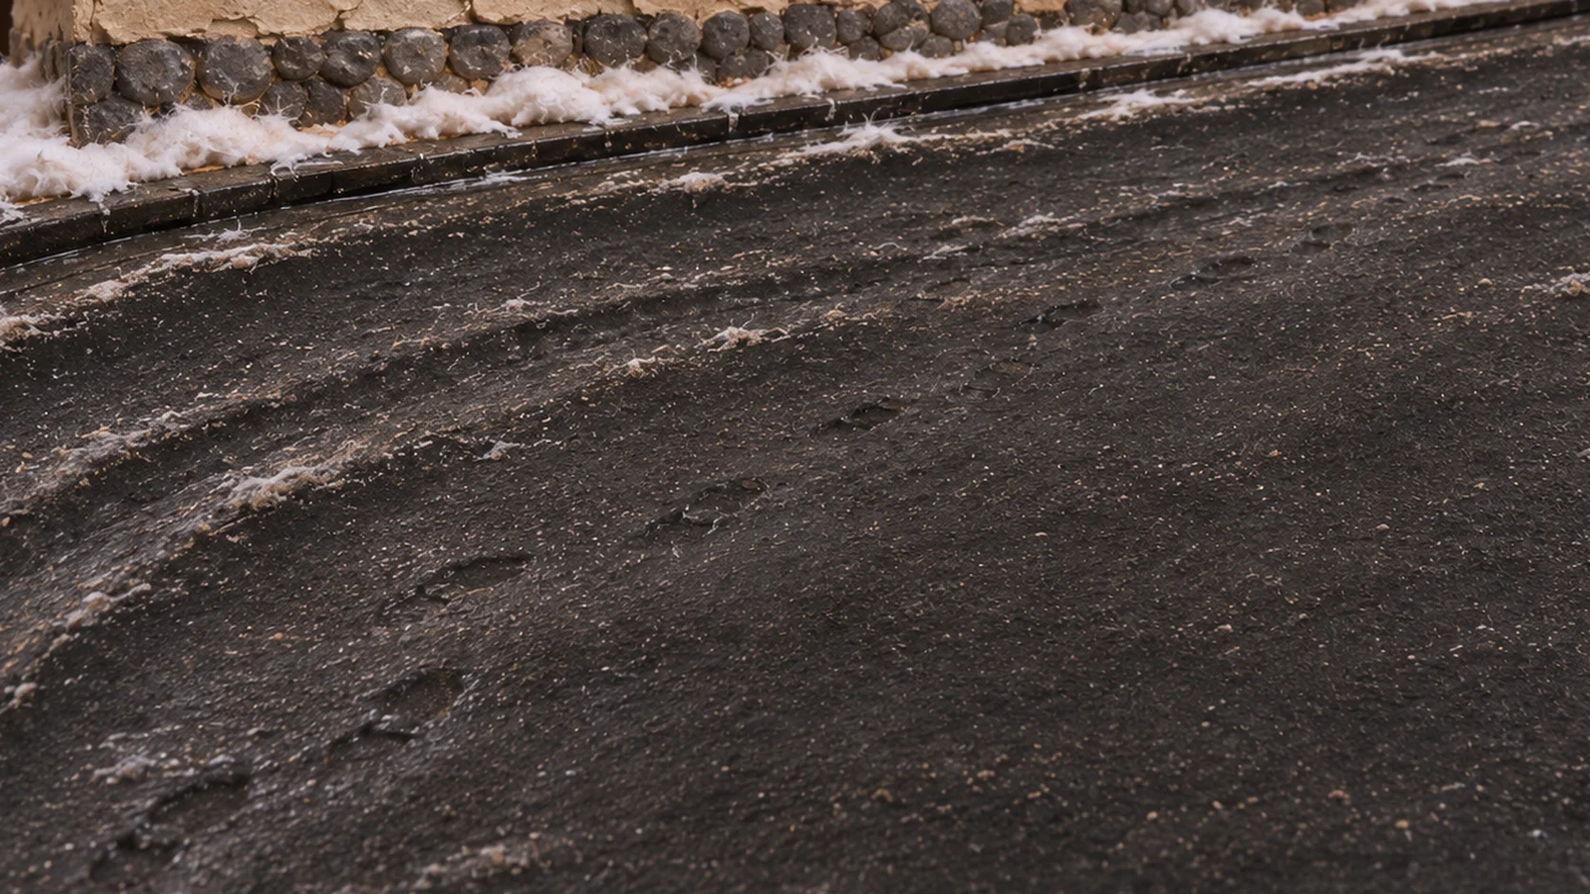
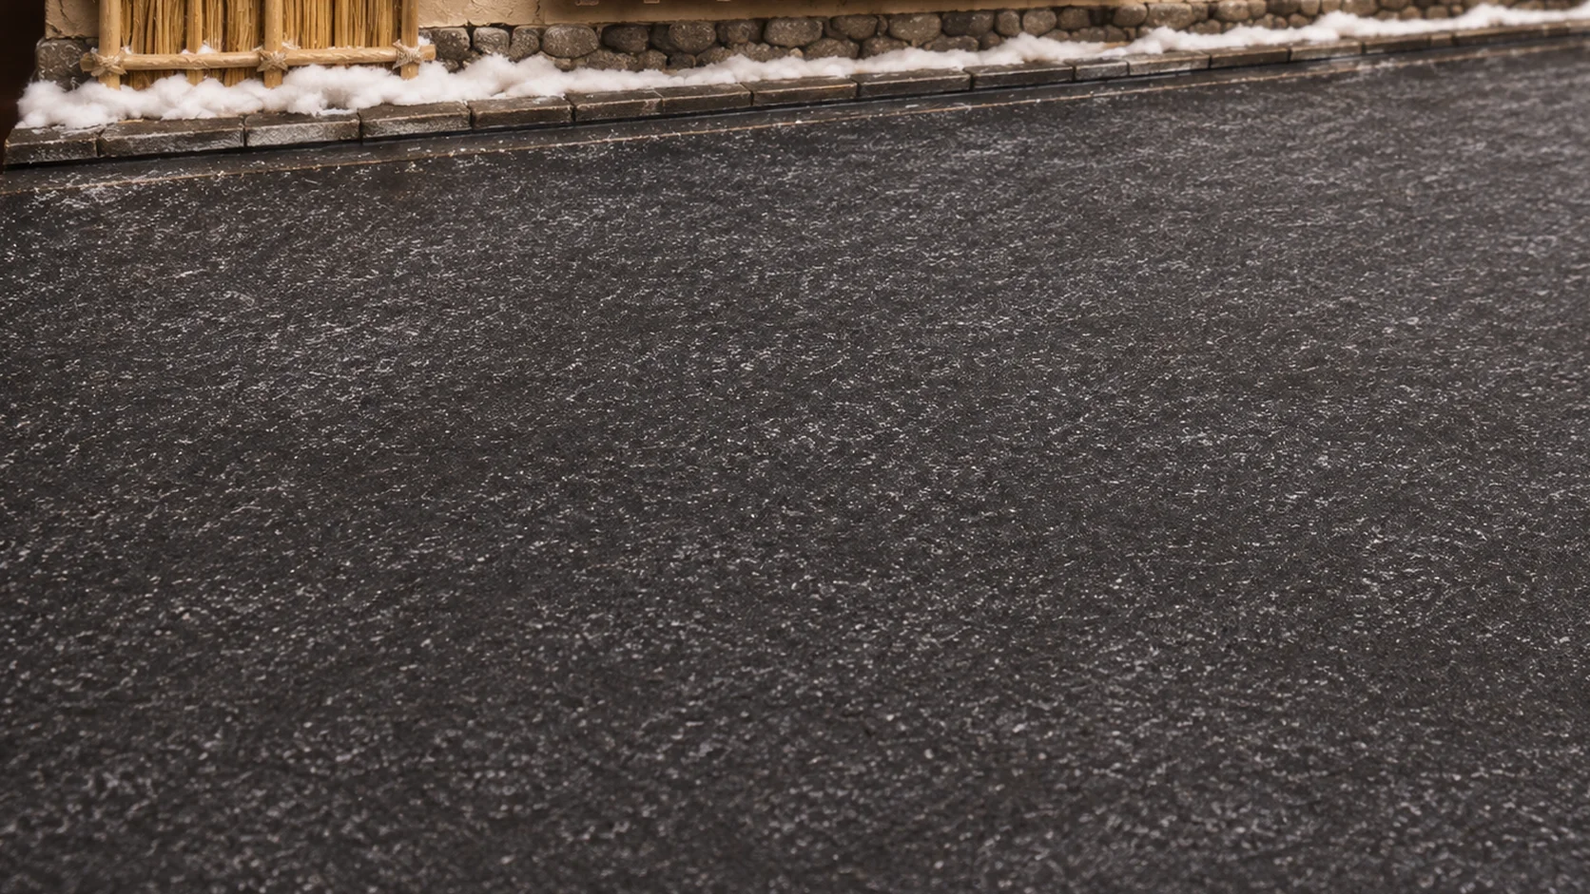
feat(battle-bg): BG012 を平らな路面・均一な薄い粉雪の層で再生成（take5）、路面のうねりの間接検査（左端の低周波のむら）、上端帯に余裕の大きいクロップを選択、来歴・SKILL・レビュー観点・テスト (Refs #191)

diff --git a/tests/test_battle_bg_build.py b/tests/test_battle_bg_build.py
@@ -607,9 +607,10 @@ class RoadBackground(unittest.TestCase):
     def test_pre_check_passes_and_prompt_is_a_snow_road_without_snow_melting_holes(self):
         self.assertEqual(B.pre_check(self.L), [])
         text = B.build_prompt(B.corrected_layout(self.L))
-        self.assertIn("雪が薄く積もった雪道", text)
+        self.assertIn("平らで水平な路面", text)
+        self.assertIn("均一にかかった白い粉雪の層", text)
         self.assertIn("黒い湿ったアスファルト", text)
-        self.assertIn("足跡", text)
+        self.assertIn("曲線", text)  # 左端の路面は弧や曲線にならない
         for bad in ("舞台", "緞帳", "城", "消雪", "金属", "穴", "融雪"):  # kako-jun「雪道でいいのでは」: 穴・金属蓋は描かない
             self.assertNotIn(bad, text)
 
@@ -824,6 +825,54 @@ class RoadBlackBoundary(unittest.TestCase):
             return [q for q in rep["problems"] if "路面の黒い面" in q]
         self.assertTrue(run(0.44))   # 44% は NG（45% 以上が要る）
         self.assertFalse(run(0.46))  # 46% は合格
+
+
+
+
+class FlatRoad(unittest.TestCase):
+    """路面のうねり・盛り上がり・湾曲した轍の間接検査（画面左端の低周波の明るさのむら）。"""
+
+    def setUp(self):
+        _, self.L = B.load("BG012")
+
+    def run_check(self, painter):
+        import io, contextlib, json
+        im = Image.new("RGB", (1672, 941), (60, 58, 56))
+        painter(im)
+        with tempfile.TemporaryDirectory() as t:
+            p = Path(t) / "x.png"
+            im.save(p)
+            a = B.argparse.Namespace(bg_id="BG012", image=str(p), out=t, zoomed=True)
+            with contextlib.redirect_stdout(io.StringIO()):
+                rc = B.cmd_check(a)
+            return rc, json.loads((Path(t) / "report.json").read_text(encoding="utf-8"))
+
+    def test_threshold_is_the_documented_value(self):
+        self.assertEqual(self.L["雪の量"]["flat_left"], {"blur": 40, "y0": 260, "y1": 900, "w": 300, "max": 6.5})
+
+    def test_flat_road_passes(self):
+        rc, rep = self.run_check(lambda im: None)
+        self.assertEqual(rc, 0)
+        self.assertLess(rep["left_lowfreq"], 0.5)
+
+    def test_curved_bright_arc_on_the_left_edge_fails(self):
+        def arc(im):
+            d = ImageDraw.Draw(im)
+            # 左端に大きく湾曲した明るい帯（湾曲した轍・盛り上がりに見える）
+            d.arc([-300, 250, 600, 1150], 240, 350, fill=(230, 230, 230), width=150)
+        rc, rep = self.run_check(arc)
+        self.assertEqual(rc, 1)
+        self.assertTrue(any("うねり" in p for p in rep["problems"]))
+        self.assertGreater(rep["left_lowfreq"], 6.5)
+
+    def test_flat_left_boundary(self):
+        # 左端の帯の右半分の明るさを上げて低周波のむらを作る（実測: +10 で約4.2、+20 で約8.3。合格線 6.5 の前後で NG/合格が分かれる）
+        def shade(delta):
+            def f(im):
+                ImageDraw.Draw(im).rectangle([150, 260, 299, 899], fill=(60 + delta, 58 + delta, 56 + delta))
+            return f
+        self.assertEqual(self.run_check(shade(10))[0], 0)
+        self.assertEqual(self.run_check(shade(20))[0], 1)
 
 
 if __name__ == "__main__":

diff --git a/.claude/skills/sit-battle-background/tools/battle_bg_build.py b/.claude/skills/sit-battle-background/tools/battle_bg_build.py
@@ -408,6 +408,14 @@ def cmd_check(a):
                     report["top_band_black"][sr["id"]] = round(f, 3)
                     if f < tb["black_min"]:
                         report["problems"].append(f"枠 {sr['id']} の上端帯（上端から{tb['frac']:.0%}）の路面の黒が {f:.0%}（{tb['black_min']:.0%} 以上が要る。石・縁石・綿の塊が枠に入っている）")
+        flat = L["雪の量"].get("flat_left")
+        if flat:  # 路面のうねり・盛り上がり・湾曲した轍（左端）の間接検査: 左端の帯の低周波の明るさのむら
+            from PIL import ImageFilter
+            bl = np.asarray(im.convert("L").filter(ImageFilter.BoxBlur(flat["blur"])), dtype=float)[flat["y0"]:flat["y1"], :flat["w"]]
+            lf = float((bl - bl.mean(axis=1, keepdims=True)).std())
+            report["left_lowfreq"] = round(lf, 2)
+            if lf > flat["max"]:
+                report["problems"].append(f"画面左端の路面の低周波の明るさのむらが {lf:.1f}（{flat['max']} 以下が要る。路面がうねり・盛り上がり・湾曲した轍に見える）")
         report["road_black_fraction"] = round(b_ / tot, 3)
         report["road_white_fraction"] = round(w_ / tot, 3)
         if b_ / tot < snow["black_min"]:

diff --git a/.claude/skills/sit-battle-background/SKILL.md b/.claude/skills/sit-battle-background/SKILL.md
@@ -77,6 +77,7 @@ description: Sit by Me の戦闘背景を、対応フィールドMAPと既存戦
 3. `codex exec -s workspace-write --skip-git-repo-check -i <layout.png> -i <stage-ref.png> < send.txt` を1回だけ（参照は割付図→見本の順。リトライなし。`send.txt` の先頭に `$imagegen` 起動文が入っている）。出力は codex.log の `session id:` と一致するセッション配下から無加工で回収する。
 4. `... battle_bg_build.py check BG011 <画像> --out <作業>/` → 実寸・安全矩形の重ね画像 `overlay.png`・城の赤い屋根の位置と奥の縁の右上がり（書き割りの下端を測り、床の奥の縁の左右の端まで延ばした上がり量が `配置.floor.min_rise_px` 以上か。1920×1080 の 40 logical px を実px に換算した値）を検査（城が枠の外／矩形に重なる、または上がり不足なら NG）。**check が NG の時は再生成せず手順5（zoom）へ。**自動検査が見るのは城の屋根の位置・実寸・奥の縁の上がりだけで、城の胴・樅・緞帳・柱・ランタンが矩形に重なるかは `overlay.png` を目視して数える（BG011 take7: 屋根は枠内で自動検査は合格だったが、城の胴の右端が味方1枠に入っていた）。樅・緞帳・柱・ランタン・前縁（無地）・奥の縁の右上がり・ミニチュア感は `overlay.png` を目視して適合表にする。
 5. **座標を守れない・床が傾いて枠が床に載らない時は、再生成も局所合成もせず、まず拡大（zoom）**（kako-jun 2026-11-12「戦闘はキャラが水平な地面にたてないとかなら再作成でなく拡大によって解決したらいい。舞台セットが見切れたほうが臨場感がでる」）: `battle_bg_build.py zoom BG011 <画像> --crop X,Y,W,H --out <出力>`（クロップ枠は 16:9。元画像は残し、枠・倍率・sha256 を zoom-report.json に残す）。敵・味方の全枠が床の上に載り、枠に城の胴・樅・柱・ランタンが重ならないクロップを探す。クロップ枠は手で探さず `battle_bg_build.py zoom-search BG011 <画像> --out <作業>/` で倍率×位置を総当たりする（各候補で、枠内の床画素97%以上かつ舞台セットの物〔青空・緑・白い粘土・金・赤い屋根など〕の画素0.5%以下を合格とし、舞台セットが最も多く見える順に番号付けして `contact.png`〔コンタクトシート。緑=合格・赤=不合格〕と `search.json` に出る）。コンタクトシートを見て番号を選び、その `crop` を zoom に渡す。**倍率の下限は画像が決める**: BG011 take7（床が浅い絵）は 1.3〜1.7倍で全枠が床に載る候補が無く最小は約2.3倍、舞台セットは20%（#191 コメント 6812458650）。床を画面の大半にした配置の take8 は 1.05倍で全枠が床に載り、舞台セットが約20%残った（#191 コメント 6812573385）。低い倍率を狙うなら、拡大でなく床の奥行きが深い絵を生成し直す。`cutoff`（見切れ）が許すのは画面の外とログ帯への重なりだけで、味方・敵の枠と下段の窓には許さない。見切れてよいのは上端・左右端の舞台セット（書き割り・緞帳・柱）だけ。拡大後の検査は `check ... --zoomed`（枠内の床画素が95%以上・屋根が見えれば矩形への重なりだけ見る）。
+**zoom-search の倍率範囲**: 既定は 1.0〜2.5倍の範囲で総当たりし（`--scales` で変えられる）、採用は低い倍率から選ぶ。合格線ぎりぎりの候補（上端帯の黒が80%付近など）は避け、余裕の大きい候補を選ぶ（BG012 take5 は上端帯の黒88%以上）。
 **採用画像のクロップの決め方**: クロップは `zoom-search` が選んだ合格候補（床・物の検査に通り、舞台セット可視が最大）から決める。拡大なし（1.0倍）が合格し、重なりが最も少なければ原画像をそのまま採用する（BG011 take10 は拡大なし1.0倍が全枠合格・物画素0.5%以下（実測の最大は味方2枠の0.28%）。1.2倍・crop 10,4,1393,784 は舞台セット可視が少し多いが城の下端が味方1枠に約20px触れたため採らない）。以前選んだ crop 10,4,1393,784 は take10 のサインオフ根拠ではない。
 **注記**: 屋根・金の色判定は TRM-02 の実色に合わせたが、屋根の `r-g>95` は take10 の1枚で調整した値で、複数の絵では検証していない（詳細は台帳『配置』備考）。
 6. zoom で解決しない物だけ従来の局所合成: 同じ送信文の再生成は繰り返さない。`battle_bg_build.py mask BG011 castle --out <mask>` で城の枠のマスクを作り、`image-local-replace` スキル（マスク内だけ直し、マスク外は画素同一を検証）で城だけ局所合成する。割付図・マスクは台帳『配置』から機械生成したものだけを使う。
@@ -94,7 +95,7 @@ description: Sit by Me の戦闘背景を、対応フィールドMAPと既存戦
 - **色判定は実画像で校正**する（屋根・金は TRM-02 の実色。誤検出は床の絵で数える）。閾値が1枚の絵で調整した値なら、その旨を注記する。
 - **生成後は `check --zoomed` と `overlay.png` を必ず**。自動検査は屋根・床・物の画素だけで、重なりの最終判断は目視（適合表を作る）。
 - 採用は暫定採用（kako-jun の目視承認は未取得）と正直に台帳へ記録する。
-- **道の戦闘背景（BG012 寺町の道路）は雪道で、消雪パイプの穴（融雪装置・金属蓋）は描かない**（kako-jun 2026-11-12「融雪装置が大きすぎる」「雪道でいいのでは」）。台帳『配置』は `継承: BG011`（安全矩形・床の四隅は BG011 を単一正本に継承）、`地面: thin-snow`（薄雪の路面。床判定は低彩度の黒・灰色・白＝黒い路面も雪も床、物は色のある面だけ）、`雪の量`（check の合格線: 枠内の黒い面45%以上・白い雪35%以下。TRM-08 の道路の実測は黒67〜82%・白1〜9%）、背景固有の `文面`（PR.battle.*-road）・`参照見本`（TRM-08 の縁石・土塀・瓦屋根・石の基礎・雪の地面の切り出し。穴のある路面は入れない。`ref --bg BG012`）・`描画オフセット`（背景ごとに実測。値は台帳『配置』が正本でここに書かない。BG011 の値を継承して生成すると奥の縁が大きく下に描かれた）を持つ。土塀・瓦屋根・雪囲いは上端で見切れ、`check --zoomed`＋overlay 目視（石・瓦・縁石は暗い灰色で路面の黒と色で区別できないため、枠の上端帯（上端から15%）の『路面の黒』の割合（80%以上。路面は91〜94%・石の入った帯は36〜58%の実測）で `check`・`zoom-search` が検査し、最終は目視）。新しい背景は、描画オフセットを実測してから生成する。 **雪を積もらせすぎない**（kako-jun 2026-11-12「雪がつもりすぎ」）: 路面は黒い湿ったアスファルトが約7割見え、厚い綿は路肩・縁石の脇・土塀の根元だけ。
+- **道の戦闘背景（BG012 寺町の道路）は雪道で、消雪パイプの穴（融雪装置・金属蓋）は描かない**（kako-jun 2026-11-12「融雪装置が大きすぎる」「雪道でいいのでは」）。台帳『配置』は `継承: BG011`（安全矩形・床の四隅は BG011 を単一正本に継承）、`地面: thin-snow`（薄雪の路面。床判定は低彩度の黒・灰色・白＝黒い路面も雪も床、物は色のある面だけ）、`雪の量`（check の合格線: 枠内の黒い面45%以上・白い雪35%以下。TRM-08 の道路の実測は黒67〜82%・白1〜9%）、背景固有の `文面`（PR.battle.*-road）・`参照見本`（TRM-08 の縁石・土塀・瓦屋根・石の基礎・雪の地面の切り出し。穴のある路面は入れない。`ref --bg BG012`）・`描画オフセット`（背景ごとに実測。値は台帳『配置』が正本でここに書かない。BG011 の値を継承して生成すると奥の縁が大きく下に描かれた）を持つ。土塀・瓦屋根・雪囲いは上端で見切れ、`check --zoomed`＋overlay 目視（石・瓦・縁石は暗い灰色で路面の黒と色で区別できないため、枠の上端帯（上端から15%）の『路面の黒』の割合（80%以上。路面は91〜94%・石の入った帯は36〜58%の実測）で `check`・`zoom-search` が検査し、最終は目視）。新しい背景は、描画オフセットを実測してから生成する。 **路面は平ら。湾曲した轍・うねり・盛り上がりを描かない。雪は路面全体に均一な薄い粉雪の層**（kako-jun 2026-11-12「戦闘画面の道路の左端がなんか曲線状にゆがんでるし雪でなく道路がぐねぐね凹凸があるようにみえている」。轍・足跡のくぼみを描かせると左端に大きな弧の轍が出てうねって見えた）。`check --zoomed` が左端の低周波の明るさのむら（6.5以下。平らな take5 は3.5、うねった take4 は9.2）で間接検査し、最終は目視（左端が直線的か・平らか・雪の層に見えるか）。**雪を積もらせすぎない**（kako-jun 2026-11-12「雪がつもりすぎ」）: 路面は黒い湿ったアスファルトが約7割見え、厚い綿は路肩・縁石の脇・土塀の根元だけ。
 
 ## 運用
 

diff --git a/docs/ledger/views/content.md b/docs/ledger/views/content.md
@@ -2125,7 +2125,7 @@ uv run python3 scripts/content_ledger_views.py build で更新する。
 | A-1350 | TRM-08 | 背景(基準) | assets/images/fields/reference/teramachi-road-well-canal-trm08-adopted.webp | 採用 | 2026-11-11 | e2 の take1 の消雪パイプの噴射の水だけを決定論のマスク編集で消した take1-edit1 を採用（kako-jun「融雪装置の上だけすこしアスファルトが明るい色という不自然さはあるが、気にならないレベルなのでまぁいい」。決定 TRM-08.adopt-take1-edit1、Issue #191 https://github.com/kako-jun/sit-by-me/issues/191#issuecomment-6787902612）。元の take1（docs/production/oblique-mocks/TRM-08/e2/take1.png、sha256 3878525ed66d703a0747cefd3a1f568758c1b58cddfd65e58229dd1fb6860356）に対し、マスク外は画素同一（差分 0）。1672×941 の PNG（docs/production/oblique-mocks/TRM-08/e2/take1-edit1.png、リポ外・git 無視、sha256 5f0f793e5292bc4d22f457fabef918b340197c6ac60ddb83e107039e53874823）を、マスク外の画素を変えないため可逆 WebP（リサイズなし）で正本パスへ保存。manifest adoption に記録。 | d35d2e688b9149f40d2d14ad1a9070c9a4a42b79d709a8b823da2cd59cee5c13 |  |
 | A-1351 | TRM-12 | 背景(基準) | assets/images/fields/reference/teramachi-danchi-room-trm12-adopted.webp | 採用 | 2026-11-11 | e2 の take4 を土台に局所編集した edit3 を採用（kako-jun「枕が大きすぎること以外はよい」「そのまくらでいい」。決定 TRM-12.adopt-take4-edit3、Issue #191 https://github.com/kako-jun/sit-by-me/issues/191#issuecomment-6787975184）。元の take4（docs/production/oblique-mocks/TRM-12/e2/take4.png、sha256 b6d69fc404bc894a5d3760b571befed0eecf6feb79da9c4ff6fbdd2b42b0c12d）に、玄関扉の色を take3 に合わせる・右上クローゼットの南向き面の扉の線を消す・枕を各布団の頭側のへり中央へ小さく置き直す（局所 imagegen）の3点を、不規則マスクの局所編集で行った 1672×941 の PNG（docs/production/oblique-mocks/TRM-12/e2/take4-edit3.png。リポ外・git 無視、sha256 bb0214f8522579446f9fbf44155db2ff882748e0dbe92a0e57172fa60512af02。マスク外は take4 と画素同一＝差分 0）を、マスク外の画素を変えないため可逆（lossless）WebP（リサイズなし）にして正本パスへ保存。manifest adoption に記録。枕の色味は2つとも白寄りの生成りに揃えた。 | ea155960e5545fcb1f8d080dbe83f7f3cf3d2dce08b9ce9b31edffed42c5c389 |  |
 | A-1352 | BG011 | battle-backgrounds | assets/images/battle-backgrounds/BG011.webp | 採用 | 2026-11-12 | 暫定採用（kako-jun の目視承認は未取得）。sit-battle-background スキルの build→1回生成→check の手順で作った take10（拡大なし1.0倍、台帳『配置』の描画オフセット補正あり）。check --zoomed で全枠（敵・味方4枠・窓3枠）の床画素99%以上・物画素0.5%以下（実測の最大は味方2枠の0.28%）。kako-jun の目視承認を得るまでは暫定で、不採用なら台帳の状態を戻して差し替える。Issue #191、PR #274。 | 49d4b0e8b04646a9df3fe61c1c929ca1c5f5dd245340ea618138a9430d850d09 |  |
-| A-1353 | BG012 | battle-backgrounds | assets/images/battle-backgrounds/BG012.webp | 採用 | 2026-11-12 | 暫定採用（kako-jun の目視承認は未取得）。sit-battle-background スキルで、台帳『配置』（BG011 継承・地面=thin-snow）から build して take4 を生成し、zoom-search（1.0〜2.1倍）で、枠の上端帯に石・縁石・綿の塊が入らない候補（上端帯の路面の黒80%以上）から選んだ 1.3倍・crop 90,124,1286,724 で拡大。薄雪の雪道（kako-jun「雪がつもりすぎ」2026-11-12）。消雪パイプの穴・金属蓋は描かない（「融雪装置が大きすぎる」「雪道でいいのでは」）。check --zoomed で全枠（敵・味方4枠・窓3枠）の床画素99%以上・物画素0.5%以下（実測の最大は味方1枠の0.29%）、路面の黒92.1%・白0.9%（合格線は黒45%以上・白35%以下。決定備考の『約7割』は TRM-08 の道路の実測（黒67〜82%）に基づく目安で、ここの92.1%は take4 の実測）、上端帯の路面の黒は味方1枠80.2%・敵の枠84.9%（合格線80%以上）。上端に土塀・戸室石の基礎・縁石・路肩の綿の雪は見切れて残るが、枠には入らない（目視でも確認）。寺町の特徴だけを合わせた景色（どのマップとも一致しない）。BG012 は計4回生成（take1=BG011 のオフセット継承、take2=穴あり、take3=厚い雪、take4=薄雪。指示の1回を超えた）。旧画像は差し替えた。Issue #191、PR #274。 | a5787276f6f27e75385dee7103881b74432064f6cf8d55e4378aaec773b23618 |  |
+| A-1353 | BG012 | battle-backgrounds | assets/images/battle-backgrounds/BG012.webp | 採用 | 2026-11-12 | 暫定採用（kako-jun の目視承認は未取得）。sit-battle-background スキルで、台帳『配置』（BG011 継承・地面=thin-snow）から build して take5 を生成し、zoom-search（1.0〜1.5倍の範囲で総当たり）で、枠の上端帯に石・縁石・綿の塊が入らず（上端帯の路面の黒80%以上）、かつ余裕の大きい候補（味方1枠88%・敵の枠91%）を選んだ 1.15倍・crop 70,52,1454,818 で拡大。平らで水平な路面に、均一な薄い白い粉雪の層（黒い路面が透ける）。kako-jun「雪がつもりすぎ」「戦闘画面の道路の左端がなんか曲線状にゆがんでるし雪でなく道路がぐねぐね凹凸があるようにみえている」（2026-11-12）を受け、轍・足跡のくぼみを描かず、左端は直線的な遠近。消雪パイプの穴・金属蓋は描かない（「融雪装置が大きすぎる」「雪道でいいのでは」）。check --zoomed（再実測）で全枠（敵・味方4枠・窓3枠）の床画素99%以上・物画素0.5%以下（最大は味方1枠の0.03%）、路面の黒90.9%・白1.0%（合格線は黒45%以上・白35%以下。決定備考の『約7割』は TRM-08 の道路の実測（黒67〜82%）に基づく目安で、ここの90.9%は take5 の実測）、上端帯の路面の黒は味方1枠88.4%・敵の枠90.6%（合格線80%以上）、左端の路面の低周波のむらは3.5（合格線6.5以下。うねって見えた take4 は9.2）。上端に土塀・戸室石の基礎・縁石・路肩の綿の雪は見切れて残るが、枠には入らない（目視でも確認）。寺町の特徴だけを合わせた景色（どのマップとも一致しない）。BG012 は計5回生成（take1=BG011 のオフセット継承、take2=穴あり、take3=厚い雪、take4=薄雪でうねって見えた、take5=平らな薄い粉雪。指示の1回を超えた）。旧画像は差し替えた。Issue #191、PR #274。 | 6c0f0576b0c1434f3dee03b28c5327fb30cdb731d27f2f293f7b9c1ea1f33e9f |  |
 
 ### 素材移行 (712件)
 

diff --git a/.claude/skills/sit-artifact-redteam/SKILL.md b/.claude/skills/sit-artifact-redteam/SKILL.md
@@ -32,7 +32,8 @@ Find evidence that a proposed or generated artifact is wrong before it is adopte
 7. **ツールの検査の質**: 変異テスト（閾値・分岐を変えると落ちるか）、色判定が実画像（TRM-02）で校正されているか、1枚の絵に合わせた閾値が注記されているか、旧記述（前縁・前面）が台帳・文面・テストに残っていないか。
 8. **道の戦闘背景は雪道**: 消雪パイプの穴・金属蓋（融雪装置）が描かれていないか（kako-jun「融雪装置が大きすぎる」「雪道でいいのでは」）。`check` と overlay で、路面に丸い金属の蓋・穴が無いか目視する。
 9. **雪を積もらせすぎない（BG012）**: 路面の黒い湿ったアスファルトが約7割見え、厚い綿の盛り上がりが路肩・縁石の脇・土塀の根元だけか（kako-jun「雪がつもりすぎ」）。`check --zoomed` の `road_black_fraction`（45%以上）・`road_white_fraction`（35%以下）と overlay の目視で数える。
-10. **採用の記録**: 暫定採用なら台帳に「kako-jun の目視承認は未取得」と書かれているか。
+10. **路面は平ら（BG012）**: 湾曲した轍・左端の弧・うねり・盛り上がりが無いか、雪が路面全体に均一な薄い層に見えるか（kako-jun「道路の左端がなんか曲線状にゆがんでる…ぐねぐね凹凸がある」）。`check --zoomed` の `left_lowfreq`（6.5以下）と overlay の目視。
+11. **採用の記録**: 暫定採用なら台帳に「kako-jun の目視承認は未取得」と書かれているか。
 
 ## Inputs and canonical sources
 
